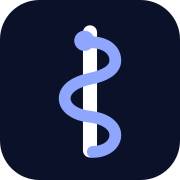
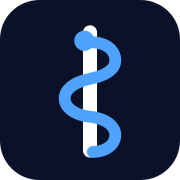
Accento blu più acceso: #4FA3FF (elettrico)
Claude-Session: https://claude.ai/code/session_01KutUNZmbXa2PRUqu11jtbw

Changed region(s): [[0.3056, 0.1667, 0.6944, 0.8889]]

diff --git a/assets/style.css b/assets/style.css
@@ -10,7 +10,7 @@
 :root{
   --paper:#0A1128; --white:#131C3D; --paper-2:#1B2650; --line:#222D57; --line-2:#2A3766;
   --ink:#FFFFFF; --ink-soft:#C2CAE3; --ink-mute:#AEB8D6;
-  --teal:#8FA6FF; --teal-deep:#B9C8FF; --teal-light:#1B2650; --amber:#FF7AC0; --mint:#7FE3D2; --gold:#FFC861;
+  --teal:#4FA3FF; --teal-deep:#8CC4FF; --teal-light:#1B2650; --amber:#FF7AC0; --mint:#7FE3D2; --gold:#FFC861;
   --r-xl:28px; --r-lg:22px; --r-md:14px; --r-sm:8px;
 }
 *{box-sizing:border-box;margin:0;padding:0}
@@ -231,16 +231,16 @@ footer .credit a{color:var(--teal);font-weight:700}
 }
 
 /* pulsanti: contorno luminoso + respiro lento sui principali */
-@keyframes respiro-blu{0%,100%{box-shadow:0 0 0 1px rgba(143,166,255,.55),0 0 14px rgba(143,166,255,.28)}50%{box-shadow:0 0 0 4px rgba(143,166,255,.22),0 0 30px rgba(143,166,255,.55)}}
+@keyframes respiro-blu{0%,100%{box-shadow:0 0 0 1px rgba(79,163,255,.55),0 0 14px rgba(79,163,255,.28)}50%{box-shadow:0 0 0 4px rgba(79,163,255,.22),0 0 30px rgba(79,163,255,.55)}}
 @keyframes respiro-blu-notte{0%,100%{box-shadow:0 0 0 1px rgba(10,17,40,.35),0 0 12px rgba(255,122,192,.25)}50%{box-shadow:0 0 0 4px rgba(255,122,192,.28),0 0 28px rgba(255,122,192,.45)}}
 @keyframes respiro-verde{0%,100%{box-shadow:0 0 0 0 rgba(37,211,102,.55),0 8px 20px rgba(0,0,0,.35)}50%{box-shadow:0 0 0 12px rgba(37,211,102,0),0 8px 20px rgba(0,0,0,.35)}}
 .btn{transition:background .2s,transform .2s,border-color .2s,color .2s,box-shadow .3s}
-.btn-primary{box-shadow:0 0 0 1px rgba(143,166,255,.55),0 0 14px rgba(143,166,255,.28)}
+.btn-primary{box-shadow:0 0 0 1px rgba(79,163,255,.55),0 0 14px rgba(79,163,255,.28)}
 .hero-actions .btn-primary,.callbar .btn-primary,.cta .btn-primary,.loc .btn-primary{animation:respiro-blu 3.2s ease-in-out infinite}
 .cta .btn-primary{animation-name:respiro-blu-notte}
 .btn-primary:hover{animation-play-state:paused}
-.btn-ghost{border-color:rgba(143,166,255,.5);box-shadow:0 0 12px rgba(143,166,255,.16),inset 0 0 10px rgba(143,166,255,.08)}
-.btn-ghost:hover{border-color:var(--teal);box-shadow:0 0 18px rgba(143,166,255,.35),inset 0 0 12px rgba(143,166,255,.12)}
+.btn-ghost{border-color:rgba(79,163,255,.5);box-shadow:0 0 12px rgba(79,163,255,.16),inset 0 0 10px rgba(79,163,255,.08)}
+.btn-ghost:hover{border-color:var(--teal);box-shadow:0 0 18px rgba(79,163,255,.35),inset 0 0 12px rgba(79,163,255,.12)}
 nav .btn{box-shadow:0 0 0 1px rgba(255,255,255,.6),0 0 16px rgba(255,255,255,.22)}
 .btn-wa{box-shadow:0 0 0 1px rgba(37,211,102,.6),0 0 16px rgba(37,211,102,.3)}
 .wa-float{animation:respiro-verde 2.8s ease-out infinite}
